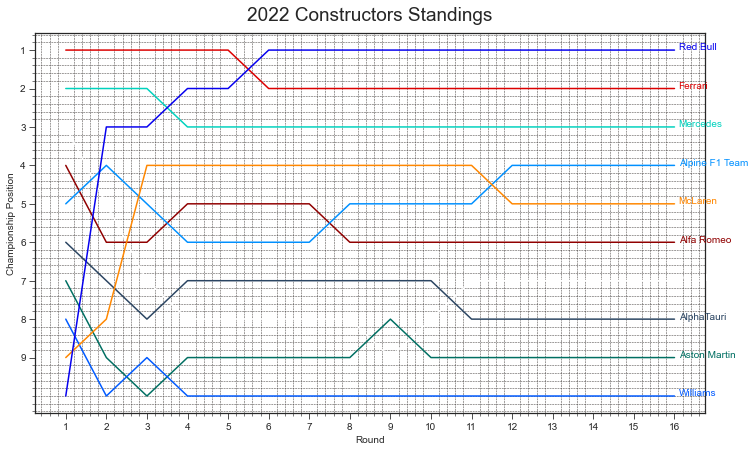
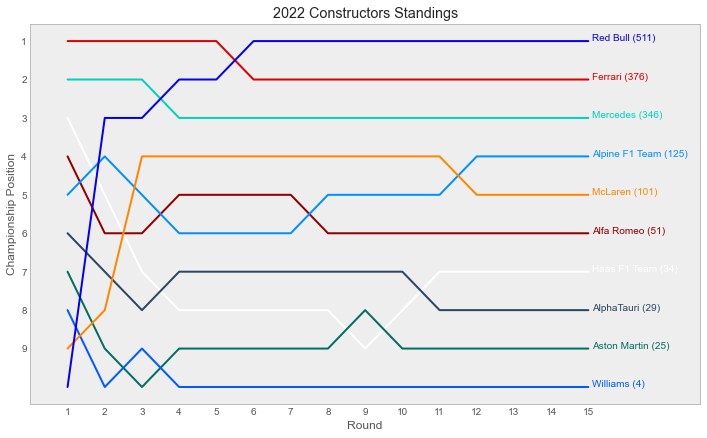
standings after belgian GP

Changed region(s): [[0.0, 0.0, 0.9958, 0.9795]]

diff --git a/page/standings/drivers/2022-08-28_Belgian_Grand_Prix.md b/page/standings/drivers/2022-08-28_Belgian_Grand_Prix.md
@@ -1,0 +1,51 @@
+## Drivers Standings after the Belgian Grand Prix
+
+---
+
+<img src="/output/2022-08-28_Belgian_Grand_Prix/drivers_standings_championship_white.png?raw=true"/>
+
+### Who can still win the Driver Championship ?
+
+| position | driver | current points | theoretical max points | can win |
+| -------- | ------ | -------------- | ---------------------- | ------- |
+| **1**        | **VER**    | **310**            | **448**                    | **Yes**     |
+| **2**        | **LEC**    | **201**            | **339**                    | **Yes**     |
+| **3**        | **PER**    | **201**            | **339**                    | **Yes**     |
+| **4**        | **RUS**    | **188**            | **326**                    | **Yes**     |
+| **5**        | **SAI**    | **175**            | **313**                    | **Yes**     |
+| 6        | HAM    | 158            | 296                    | No      |
+| 7        | NOR    | 82             | 220                    | No      |
+| 8        | OCO    | 66             | 204                    | No      |
+| 9        | ALO    | 59             | 197                    | No      |
+| 10       | BOT    | 46             | 184                    | No      |
+| 11       | MAG    | 22             | 160                    | No      |
+| 12       | VET    | 20             | 158                    | No      |
+| 13       | RIC    | 19             | 157                    | No      |
+| 14       | GAS    | 18             | 156                    | No      |
+| 15       | MSC    | 12             | 150                    | No      |
+| 16       | TSU    | 11             | 149                    | No      |
+| 17       | ZHO    | 5              | 143                    | No      |
+| 18       | STR    | 5              | 143                    | No      |
+| 19       | ALB    | 4              | 142                    | No      |
+| 20       | LAT    | 0              | 138                    | No      |
+| 21       | HUL    | 0              | 138                    | No      |
+|          |        |                |                        |         |
+
+--- 
+
+Find more about the other sessions here :
+  - [Free Pratice 1](/page/FP1/2022-08-28_Belgian_Grand_Prix)  
+  - [Free Pratice 2](/page/FP2/2022-08-28_Belgian_Grand_Prix) 
+  - [Free Pratice 3](/page/FP3/2022-08-28_Belgian_Grand_Prix)
+  - [Qualifying](/page/Qualifying/2022-08-28_Belgian_Grand_Prix) 
+  - [Race](/page/Race/2022-08-28_Belgian_Grand_Prix)
+
+---
+
+<div style="text-align: center">
+  <p style="font-size:11px">&copy; 2022 Yoann Betton</p>
+</div>
+
+<!-- ---
+
+<p style="font-size:11px">Page generated from <a href="https://github.com/yoannbtn/yoannbtn.github.io">github.com/yoannbtn</a>.</p> -->

diff --git a/page/standings/constructors/2022-08-28_Belgian_Grand_Prix.md b/page/standings/constructors/2022-08-28_Belgian_Grand_Prix.md
@@ -1,0 +1,24 @@
+## Constructors Standings after the Belgian Grand Prix
+
+---
+
+<img src="/output/2022-08-28_Belgian_Grand_Prix/constructors_standings_championship_white.png?raw=true"/>
+
+--- 
+
+Find more about the other sessions here :
+  - [Free Pratice 1](/page/FP1/2022-08-28_Belgian_Grand_Prix)  
+  - [Free Pratice 2](/page/FP2/2022-08-28_Belgian_Grand_Prix) 
+  - [Free Pratice 3](/page/FP3/2022-08-28_Belgian_Grand_Prix)
+  - [Qualifying](/page/Qualifying/2022-08-28_Belgian_Grand_Prix) 
+  - [Race](/page/Race/2022-08-28_Belgian_Grand_Prix)
+
+---
+
+<div style="text-align: center">
+  <p style="font-size:11px">&copy; 2022 Yoann Betton</p>
+</div>
+
+<!-- ---
+
+<p style="font-size:11px">Page generated from <a href="https://github.com/yoannbtn/yoannbtn.github.io">github.com/yoannbtn</a>.</p> -->

diff --git a/page/f1-data-analysis-tools.md b/page/f1-data-analysis-tools.md
@@ -39,6 +39,8 @@
   - [Free Pratice 3](/page/FP3/2022-08-28_Belgian_Grand_Prix)
   - [Qualifying](/page/Qualifying/2022-08-28_Belgian_Grand_Prix) 
   - [Race](/page/Race/2022-08-28_Belgian_Grand_Prix)
+  - [Drivers Standings](/page/standings/drivers/2022-08-28_Belgian_Grand_Prix)
+  - [Constructors Standings](/page/standings/constructors/2022-08-28_Belgian_Grand_Prix)
 
 ### 14. Dutch Grand Prix - Circuit Zandvoort
 
